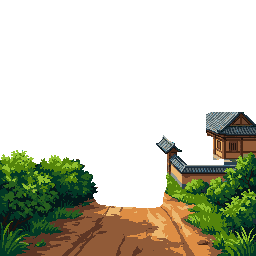
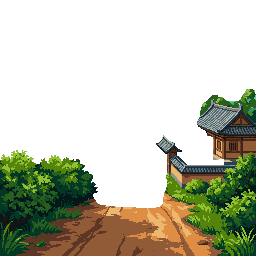
update liubo rules

Changed region(s): [[0.75, 0.3438, 1.0, 0.5312]]

diff --git a/src/scenes/LiuboScene.js b/src/scenes/LiuboScene.js
@@ -15,6 +15,7 @@ import {
     createLiuboState,
     getAllLegalMoves,
     getLegalMovesForPiece,
+    getLiuboMoveCaptureIds,
     getPiece,
     getPlayerPieces,
     rollLiuboSticks,
@@ -426,7 +427,7 @@ export class LiuboScene extends BaseScene {
         const legalMoves = this.state.legalMoves || [];
         legalMoves.forEach(move => this.renderMovePath(ctx, move));
         this.renderEntryGateAffordances(ctx, legalMoves, layout);
-        legalMoves.forEach(move => {
+        getBestLiuboMovesByDestination(this.state, legalMoves).forEach(move => {
             const pos = this.boardToScreen(getBoardPointPosition(move.toSpaceId));
             if (!pos) return;
             this.moveRects.push({ x: pos.x - 10, y: pos.y - 10, w: 20, h: 20, move });
@@ -435,7 +436,7 @@ export class LiuboScene extends BaseScene {
 
     renderMoveAffordances(ctx) {
         const legalMoves = this.state.legalMoves || [];
-        legalMoves.forEach(move => {
+        getBestLiuboMovesByDestination(this.state, legalMoves).forEach(move => {
             const pos = this.boardToScreen(getBoardPointPosition(move.toSpaceId));
             if (!pos) return;
             const style = this.getMoveAffordance(move);
@@ -1770,10 +1771,12 @@ function randomLiuboPlayer() {
 }
 
 function classifyLiuboMove(state, move) {
-    if (move.scoreFish) return 'score';
-    if (move.promoteToOwl) return 'promote';
     const mover = state.pieces.find(piece => piece.id === move.pieceId);
     if (!mover) return 'move';
+    if (getLiuboMoveCaptureIds(state, move).length) return 'capture';
+    if (move.scoreFish) return 'score';
+    if (move.promoteToOwl) return 'promote';
+    const moverIsOwlAfterMove = mover.isOwl || !!move.promoteToOwl;
     const pieces = state.pieces.filter(piece => (
         piece.state === 'board'
         && piece.spaceId === move.toSpaceId
@@ -1783,11 +1786,33 @@ function classifyLiuboMove(state, move) {
     const enemies = pieces.filter(piece => piece.player !== mover.player);
     if (enemies.length) {
         if (friendly.length === 1) return 'capture';
-        if (enemies.some(piece => piece.isOwl !== mover.isOwl)) return 'capture';
+        if (enemies.some(piece => piece.isOwl !== moverIsOwlAfterMove)) return 'capture';
         return 'contest';
     }
     if (friendly.length) return 'block';
     return 'move';
+}
+
+function getBestLiuboMovesByDestination(state, moves) {
+    const bestByDestination = new Map();
+    for (const move of moves || []) {
+        const key = move.toSpaceId || move.key;
+        const existing = bestByDestination.get(key);
+        if (!existing || getLiuboMovePriority(state, move) > getLiuboMovePriority(state, existing)) {
+            bestByDestination.set(key, move);
+        }
+    }
+    return [...bestByDestination.values()];
+}
+
+function getLiuboMovePriority(state, move) {
+    const kind = classifyLiuboMove(state, move);
+    if (kind === 'score') return 60;
+    if (kind === 'capture') return 50;
+    if (kind === 'promote') return 40;
+    if (kind === 'contest') return 30;
+    if (kind === 'block') return 20;
+    return 10;
 }
 
 function getPerchPieces(state) {

diff --git a/src/minigames/liubo/LiuboRules.js b/src/minigames/liubo/LiuboRules.js
@@ -214,8 +214,8 @@ function scoreMove(state, move) {
     if (move.scoreFish) score += 120;
     if (move.promoteToOwl) score += 60;
     if (piece?.isOwl) score += 8;
-    const enemies = getCapturablePiecesAt(state, piece, move.toSpaceId);
-    score += enemies.length * 45;
+    const capturedIds = getLiuboMoveCaptureIds(state, move);
+    score += capturedIds.length * 45;
     if (piece?.state === 'offboard') score += 10;
     score += Math.random() * 2;
     return score;
@@ -377,19 +377,36 @@ function getCapturablePiecesAt(state, mover, spaceId) {
     return enemies;
 }
 
-function moveResultFitsCapacity(state, piece, move) {
+export function getLiuboMoveCaptureIds(state, move) {
+    if (!state || !move) return [];
+    const piece = getPiece(state, move.pieceId);
+    if (!piece) return [];
+    const simulatedMove = simulateLiuboMove(state, piece, move);
+    if (!simulatedMove?.mover) return [];
+    return getCapturablePiecesAt(simulatedMove.state, simulatedMove.mover, move.toSpaceId)
+        .map(target => target.id);
+}
+
+function simulateLiuboMove(state, piece, move) {
     const simulated = {
         ...state,
         pieces: state.pieces.map(candidate => ({ ...candidate }))
     };
     const mover = simulated.pieces.find(candidate => candidate.id === piece.id);
-    if (!mover) return false;
-    mover.state = move.toState;
+    if (!mover) return null;
+    mover.state = move.toState || 'board';
     mover.spaceId = move.toSpaceId;
     if (move.promoteToOwl) {
         mover.isOwl = true;
         mover.carryingFish = true;
     }
+    return { state: simulated, mover };
+}
+
+function moveResultFitsCapacity(state, piece, move) {
+    const simulatedMove = simulateLiuboMove(state, piece, move);
+    if (!simulatedMove?.mover) return false;
+    const { state: simulated, mover } = simulatedMove;
 
     const capturedIds = new Set(getCapturablePiecesAt(simulated, mover, move.toSpaceId).map(candidate => candidate.id));
     const remaining = simulated.pieces.filter(candidate => (